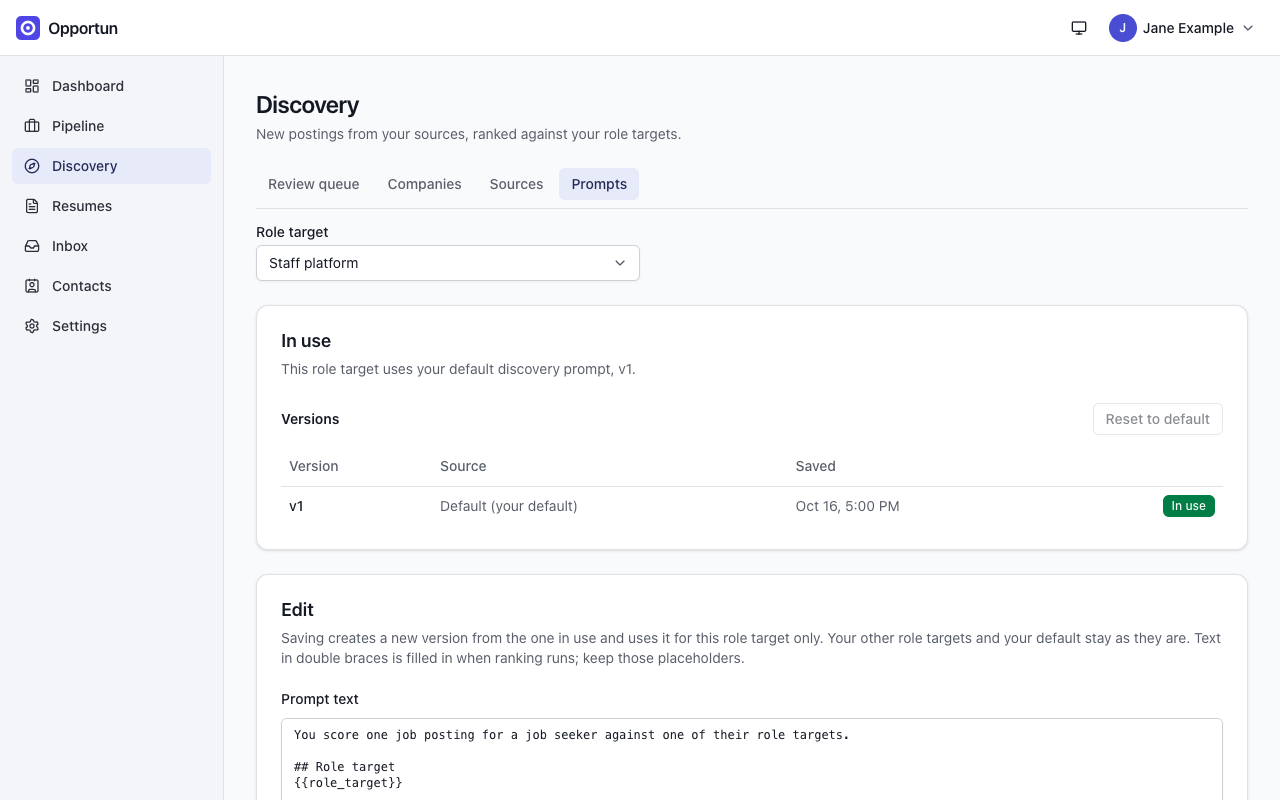
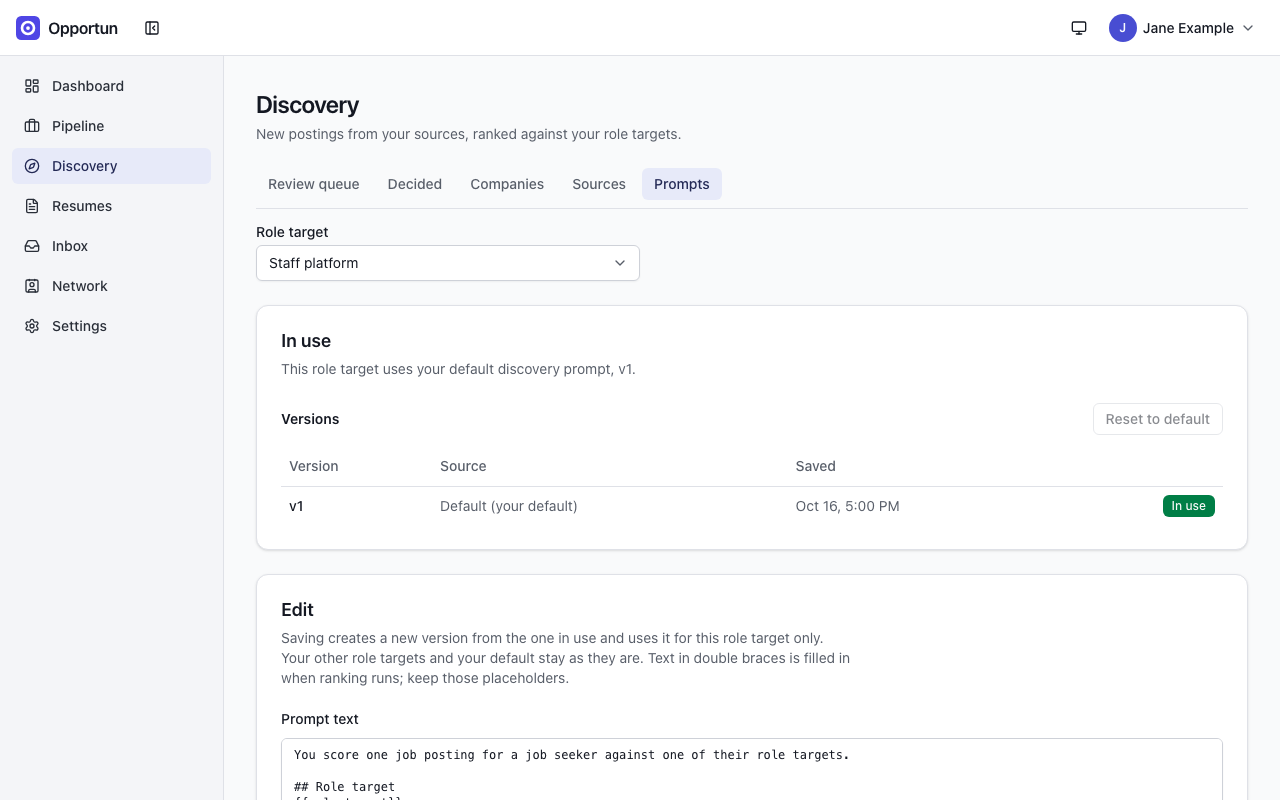
docs(guide): retake the user-guide screenshots at main (#85)
The screenshots were taken on 2026-10-25 and predate the Network rename, the
sidebar collapse button, the New stage label, the tailoring chat's own column
from xl, the card source badges and the Extensions and Connectors card. 24 of
the 25 images are retaken from a throwaway instance (port 4391, fresh data
directory, the e2e mocks, made-up data). network-list.png already matched the
current UI and is kept.

Alt text and captions follow the new images: the board's first column is New,
the Linked tab shows two messages above the fold, and the device token card is
Extensions and Connectors (also in the two sentences that name it).

Closes #85

diff --git a/docs/guide/inbox.md b/docs/guide/inbox.md
@@ -23,9 +23,9 @@ Gmail uses the same Google OAuth client as resumes (see
 Opportun syncs every 15 minutes on its own. **Sync now** (on the Inbox or the Gmail card)
 runs one immediately.
 
-![The Gmail card showing read-only access granted, 4 messages stored, the lookback window, and the Devices card below it](images/integrations-gmail-devices.png)
+![The Gmail card showing read-only access granted, 4 messages stored and the lookback window, with the Extensions and Connectors card below it reporting Apple Mail connected](images/integrations-gmail-devices.png)
 
-_The Gmail card with its lookback window, and the Devices card that tracks the Apple Mail connector._
+_The Gmail card with its lookback window, and the Extensions and Connectors card that tracks the Apple Mail connector._
 
 ## How classification works
 
@@ -56,7 +56,7 @@ unclassified and are queued automatically when you add one.
 | Spam         | Broadcast outreach. It never creates opportunities. **Not spam** brings one back                                                                                               |
 | Filtered     | Not-a-fit outreach, with the reason it does not fit                                                                                                                            |
 
-![The Linked tab: a targeted Apple Mail message, a Gmail interview request with a suggested move to In process, and a targeted Gmail message](images/inbox-linked.png)
+![The Linked tab: a targeted Apple Mail message, and a Gmail interview request with a suggested move to In process](images/inbox-linked.png)
 
 _Linked mail with its channel badges (Apple Mail, Gmail). The interview request suggests moving Contoso to In process._
 
@@ -94,10 +94,10 @@ never reaches the server, and the token can only push mail in, never read anythi
 2. Build, configure and schedule the connector on your Mac:
    [install guide section 11](../install.md#11-apple-mail-macos) has every command.
 
-The Devices card then reports the connector, for example "Apple Mail: connected, last batch
-4 minutes ago (1 message)", and each token's last use. Messages it pushes show the
-**Apple Mail** badge and go through the same classification as Gmail. Revoke a token from the
-same card and the connector is cut off on its next request.
+The Extensions and Connectors card then reports the connector, for example "Apple Mail:
+connected, last batch 4 minutes ago (1 message)", and each token's last use. Messages it pushes
+show the **Apple Mail** badge and go through the same classification as Gmail. Revoke a token
+from the same card and the connector is cut off on its next request.
 
 <!-- nav:bottom -->
 

diff --git a/docs/guide/pipeline.md b/docs/guide/pipeline.md
@@ -39,7 +39,7 @@ stage. **Table** switches to a sortable table of the same opportunities.
 - A card Opportun thinks is a duplicate of one you already track carries a **Possible
   duplicate** badge. Open either card to resolve it.
 
-![The pipeline board with Discovered and Interested collapsed, and Preparing, Applied and In process expanded](images/pipeline-kanban.png)
+![The pipeline board with New and Interested collapsed, and Preparing, Applied and In process expanded](images/pipeline-kanban.png)
 
 _The board with two columns collapsed to strips. Each card's stage button opens the move menu._
 

diff --git a/docs/guide/settings.md b/docs/guide/settings.md
@@ -141,7 +141,7 @@ under **Settings > Integrations > Extensions and Connectors**:
 - The list shows each token's permissions, when it was created and last used. **Revoke**
   cuts the device off on its next request.
 
-The Devices card is pictured in [Inbox](inbox.md#connect-gmail).
+The Extensions and Connectors card is pictured in [Inbox](inbox.md#connect-gmail).
 
 ## Import and export
 
